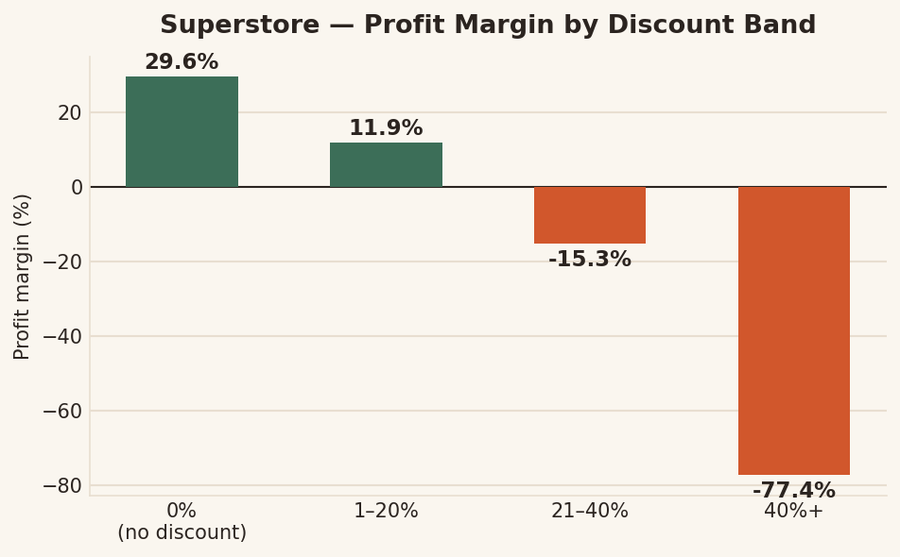
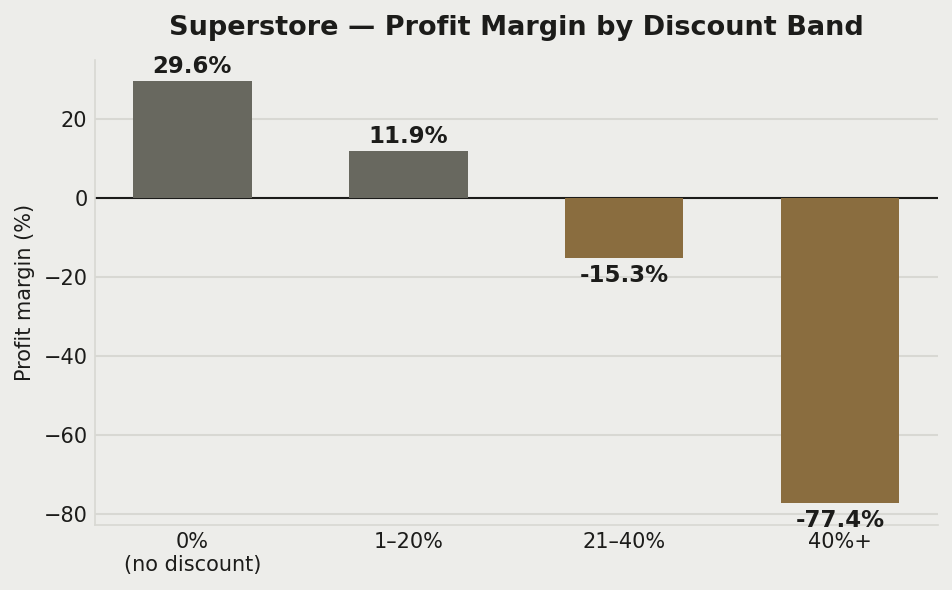
Redo color palette as matte black & grey
Replace the terracotta/cream theme with a matte black/grey palette
(bronze accent) as default, with a neutral light-grey fallback for
light-mode system preference. Regenerate the 7 self-made charts to
match the new theme and update the demo-frame mat color and modal
overlay scrim accordingly.

Claude-Session: https://claude.ai/code/session_019P82iWdypHvRa5esGXF81x

diff --git a/style.css b/style.css
@@ -1,16 +1,18 @@
 :root {
-  --paper: #faf6ee;
-  --card: #fffdf9;
-  --ink: #2b2420;
-  --muted: #6b6258;
-  --dim: #978d7c;
-  --accent: #d1572c;
-  --accent-ink: #fff8f3;
-  --accent-soft: rgba(209, 87, 44, 0.10);
-  --accent2: #3c6e58;
-  --accent2-soft: rgba(60, 110, 88, 0.10);
-  --border: #e6dcc8;
-  --shadow: rgba(43, 36, 32, 0.08);
+  /* Matte black & grey, default */
+  --paper: #141414;
+  --card: #1d1d1c;
+  --mat: #272724;
+  --ink: #ececea;
+  --muted: #a3a39e;
+  --dim: #707070;
+  --accent: #c9a876;
+  --accent-ink: #201a0d;
+  --accent-soft: rgba(201, 168, 118, 0.12);
+  --accent2: #9a9a95;
+  --accent2-soft: rgba(154, 154, 149, 0.12);
+  --border: #2d2d2b;
+  --shadow: rgba(0, 0, 0, 0.4);
   --font-display: 'Fraunces', Georgia, serif;
   --font-body: 'Inter', -apple-system, BlinkMacSystemFont, sans-serif;
   --font-mono: 'JetBrains Mono', ui-monospace, monospace;
@@ -18,20 +20,21 @@
   --max-width: 1040px;
 }
 
-@media (prefers-color-scheme: dark) {
-  :root:not([data-theme="light"]) {
-    --paper: #1c1712;
-    --card: #252019;
-    --ink: #f2ebdf;
-    --muted: #b9ac99;
-    --dim: #8a7c68;
-    --accent: #ff8a5c;
-    --accent-ink: #2a1208;
-    --accent-soft: rgba(255, 138, 92, 0.14);
-    --accent2: #6abd9a;
-    --accent2-soft: rgba(106, 189, 154, 0.12);
-    --border: #3a3122;
-    --shadow: rgba(0, 0, 0, 0.35);
+@media (prefers-color-scheme: light) {
+  :root:not([data-theme="dark"]) {
+    --paper: #f3f3f1;
+    --card: #ffffff;
+    --mat: #ededea;
+    --ink: #1c1c1a;
+    --muted: #5c5c57;
+    --dim: #8a8a85;
+    --accent: #8a6d3f;
+    --accent-ink: #fffaf0;
+    --accent-soft: rgba(138, 109, 63, 0.10);
+    --accent2: #68685f;
+    --accent2-soft: rgba(104, 104, 95, 0.08);
+    --border: #e1e1dc;
+    --shadow: rgba(28, 28, 26, 0.08);
   }
 }
 
@@ -217,7 +220,7 @@ button { font: inherit; cursor: pointer; }
 /* ---------- Modal ---------- */
 .modal-overlay {
   position: fixed; inset: 0; z-index: 100;
-  background: rgba(20, 16, 12, 0.55);
+  background: rgba(0, 0, 0, 0.6);
   display: none; align-items: center; justify-content: center;
   padding: 24px; backdrop-filter: blur(2px);
 }
@@ -235,7 +238,7 @@ button { font: inherit; cursor: pointer; }
 .modal-close:hover { border-color: var(--accent); color: var(--accent); }
 #modalTitle { font-size: 1.5rem; margin-bottom: 18px; padding-right: 40px; }
 .demo-frame {
-  background: #fff8ee; border: 1px solid var(--border); border-radius: 10px;
+  background: var(--mat); border: 1px solid var(--border); border-radius: 10px;
   padding: 12px; margin-bottom: 14px; box-shadow: 0 4px 14px var(--shadow);
 }
 .demo-frame img { width: 100%; height: auto; display: block; border-radius: 4px; }

diff --git a/index.html b/index.html
@@ -9,7 +9,7 @@
 <link rel="preconnect" href="https://fonts.googleapis.com">
 <link rel="preconnect" href="https://fonts.gstatic.com" crossorigin>
 <link href="https://fonts.googleapis.com/css2?family=Fraunces:ital,wght@0,500;0,600;0,700;1,500&family=Inter:wght@400;500;600;700&family=JetBrains+Mono:wght@400;500;600&display=swap" rel="stylesheet">
-<link rel="stylesheet" href="style.css?v=2">
+<link rel="stylesheet" href="style.css?v=3">
 </head>
 <body>
 
